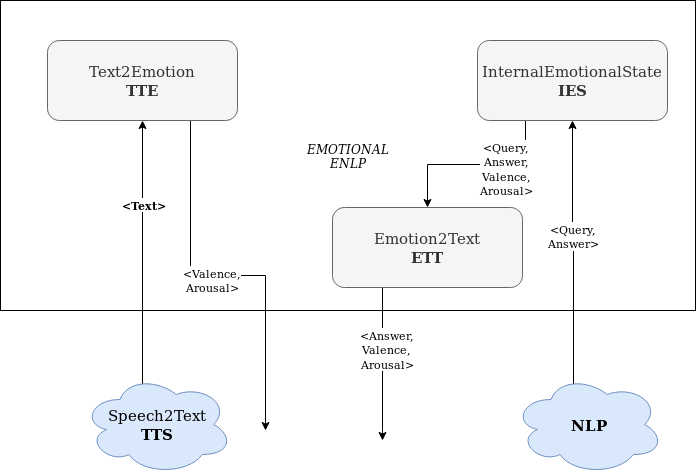
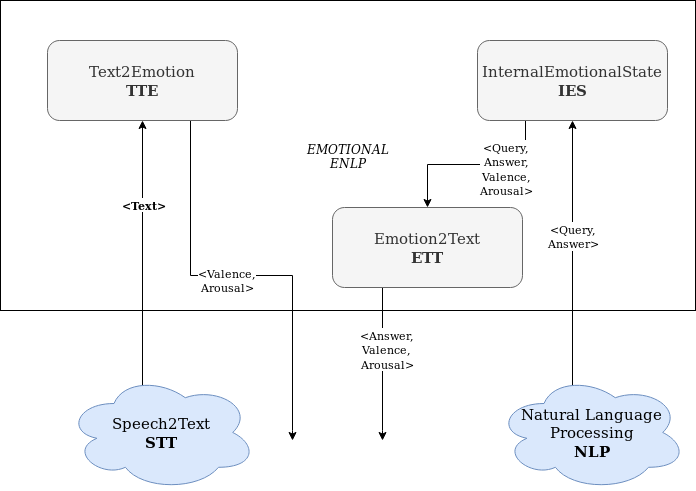
Updated README

diff --git a/SmartApp.ENLP/README.md b/SmartApp.ENLP/README.md
@@ -5,7 +5,7 @@ The code contained in this folder addresses three main tasks.
 Running the file enlp_app.py will start three sevices: text to emotion, emotion to text and ELF internal emotional state (described below).
 Each service runs in its own thread.
 
-The general architecture of our ENLP is pictured as follows:
+The general architecture of our ENLP is pictured below, where arrows represent tuples published on the KB and arrows ending in a node represent awakening of the final node when the tuple on the edge is published.
 
 ![ENLP architecture](imgs/ENLP_connections.png)
 
